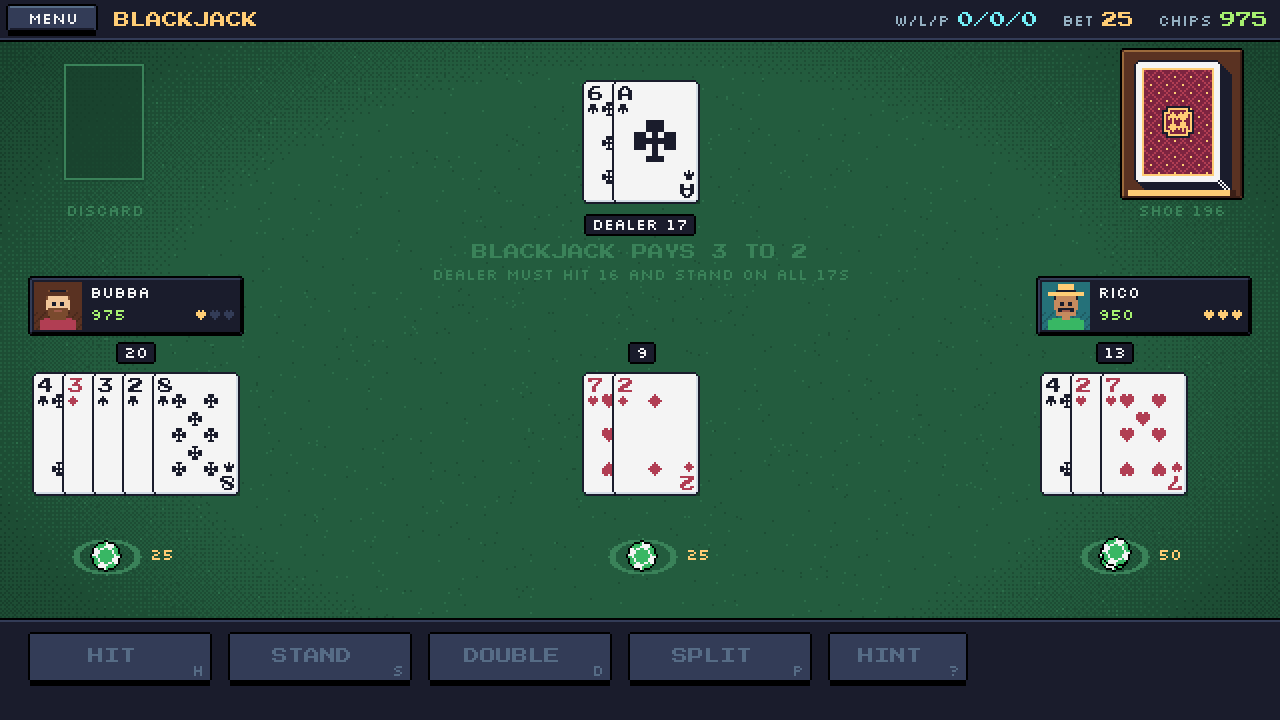
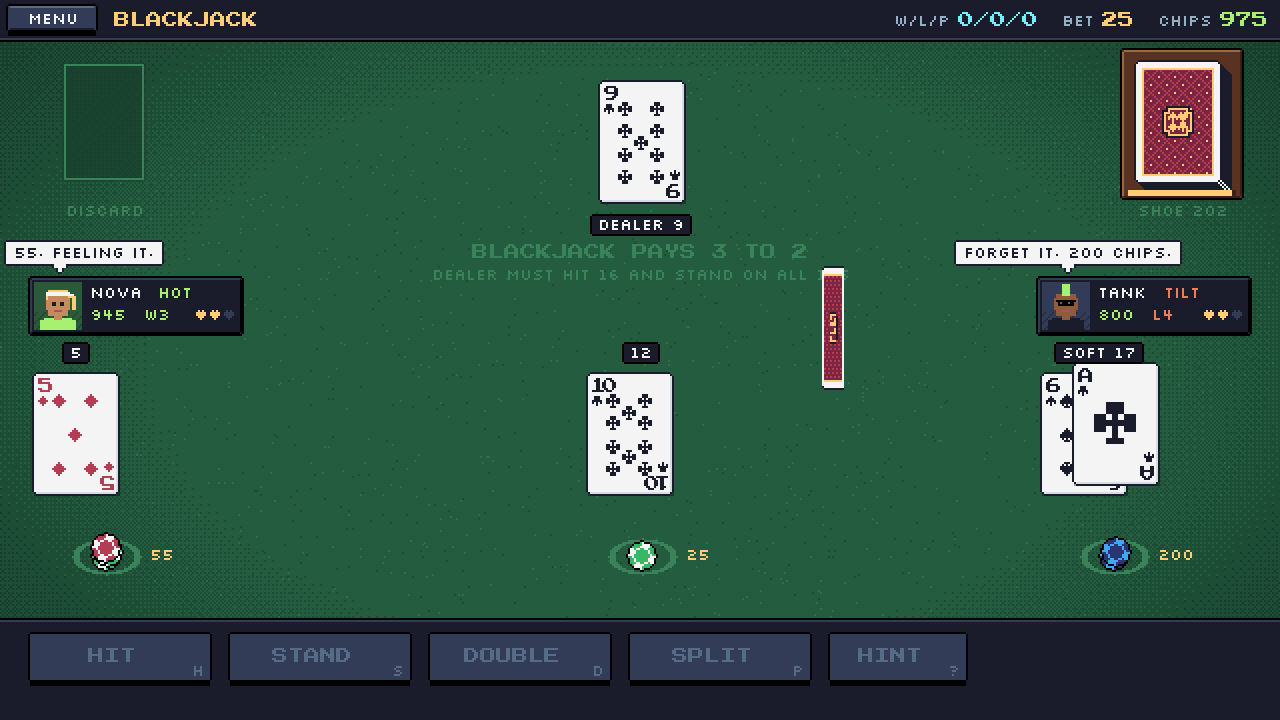
v1.2.0: Blackjack table-mates with dynamic moods, streak-based betting, nerve-driven play and running table talk

diff --git a/app/js/games/blackjack.js b/app/js/games/blackjack.js
@@ -7,6 +7,25 @@
   const CHIP_VALUES = [5, 25, 100, 500];
   const CHIP_COLORS = { 5: [P.red, P.white], 25: [P.green, P.white], 100: [P.navy, P.sky], 500: [P.plum, P.gold] };
   const START_CHIPS = 1000;
+  // general table talk, mixed with each Club member's own lines
+  const LINES = {
+    hot: ['THREE IN A ROW!', 'IM ON A HEATER!', 'DONT STOP NOW!', 'KEEP EM COMING!'],
+    cold: ['THIS SUCKS.', 'WHO SHUFFLED THIS?', 'CAN I GET ONE WIN?', 'BRUTAL.', 'I HATE THIS SHOE.'],
+    tilt: ['I AM NOT LEAVING DOWN!', 'THIS TABLE OWES ME.', 'THAT IS IT. NO MORE MR NICE.', 'UNBELIEVABLE.'],
+    allin: ['FORGET IT. {bet} CHIPS.', 'DOUBLE OR NOTHING! {bet}!', '{bet}. MY LUCK HAS TO TURN.'],
+    press: ['RAISING TO {bet}.', 'LETS MAKE IT {bet}.', 'BUMPING IT UP. {bet}.', '{bet}. FEELING IT.', 'RIDING IT. {bet}.'],
+    chase: ['{bet}. WINNING IT BACK.', 'UPPING IT TO {bet}. IT HAS TO TURN.', '{bet}. ONE GOOD HAND IS ALL I NEED.'],
+    reset: ['BACK TO {bet}. PHEW.', 'OKAY, RESET. {bet}.', 'BACK TO NORMAL. {bet}.'],
+    lower: ['DOWN TO {bet}. CAREFUL NOW.', 'JUST {bet} THIS TIME.', 'PULLING BACK. {bet}.', 'BABY STEPS. {bet}.'],
+    comeback: ['FINALLY!', 'THERE IT IS!', 'THE COMEBACK STARTS NOW.', 'ABOUT TIME!'],
+    cooled: ['ALL GOOD THINGS...', 'WELL, IT WAS FUN.', 'STREAK OVER. RATS.', 'THE TABLE TURNS.'],
+    push: ['A PUSH. BORING.', 'EVEN STEVEN.', 'NOBODY WINS.'],
+    rebuy: ['BUYING BACK IN.', 'ANOTHER STACK, PLEASE.', 'I CAN STILL WIN THIS.'],
+    brave: ['WHO CARES? HIT ME!', 'GO BIG!', 'RISK IT!', 'NO FEAR. HIT.'],
+    timid: ['I... WILL STAND.', 'NOT RISKING IT.', 'STAYING PUT.', 'SAFE IS GOOD.'],
+    cheer: ['NICE HAND!', 'SHOW OFF.', 'LUCKY YOU.', 'SHARE SOME OF THAT.'],
+    dealerBust: ['DEALER BUSTS!', 'HA! THE HOUSE CRACKS.', 'PAY UP, DEALER.']
+  };
 
   // ---------- helpers ----------
   const cardValue = (c) => (c.rank === 1 ? 11 : Math.min(10, c.rank));
@@ -109,31 +128,102 @@
       this.pick.picks.splice(0, n, ...view.picks);
       G.settings.bjPicks = this.pick.picks.slice(); G.saveSettings();
       const bank = G.store.get('bj_mates', {}) || {};
-      this.mates = view.picks.map((id, seat) => ({ id, ch: G.char(id), seat, chips: bank[id] || START_CHIPS, cards: [], bet: 0, result: null, done: false }));
+      this.mates = view.picks.map((id, seat) => { const chips = bank[id] || START_CHIPS; return { id, ch: G.char(id), seat, chips, start: chips, cards: [], bet: 0, lastBet: 0, streak: 0, best: 0, worst: 0, hands: 0, result: null, done: false }; });
       this.bubbles = []; this.setup = false;
       this.mates.forEach((m) => this.say(m, m.ch.quote.toUpperCase()));
     },
     seatX(m) { return m.seat === 0 ? 520 : 16; },
     say(m, text) { if (!text) return; this.bubbles = this.bubbles.filter((b) => b.m !== m); this.bubbles.push({ m, text, t: 1.8 }); },
+    // ---------- table-mate temper: mood, risk and betting change with the run of cards ----------
+    // mood comes from the current streak (+ wins, - losses) and how the stack compares with when they sat down
+    mood(m) {
+      const s = m.streak, n = m.ch.temper.nerve, ratio = m.chips / Math.max(1, m.start);
+      if (s >= 4) return { key: 'fire', label: 'ON FIRE', col: P.gold };
+      if (s >= 2) return { key: 'hot', label: 'HOT', col: P.lime };
+      if (s <= -3 && n === 'hothead') return { key: 'tilt', label: 'TILT', col: P.orange };
+      if (s <= -3 && n === 'jittery') return { key: 'shaky', label: 'SHAKY', col: P.sky };
+      if (s <= -2) return { key: 'cold', label: 'COLD', col: P.sky };
+      if (ratio >= 1.5) return { key: 'up', label: 'UP BIG', col: P.lime };
+      if (ratio <= 0.5) return { key: 'down', label: 'DOWN BAD', col: P.orange };
+      return null;
+    },
+    // risk shift for play decisions: + plays more dangerously, - more cautiously
+    risk(m) {
+      const s = m.streak, n = m.ch.temper.nerve;
+      if (n === 'hothead') return s <= -4 ? 2 : s <= -2 ? 1 : 0;
+      if (n === 'jittery') return s <= -4 ? -2 : s <= -2 ? -1 : 0;
+      if (n === 'confident') return s >= 4 ? 2 : s >= 2 ? 1 : s <= -3 ? -1 : 0;
+      return 0;
+    },
     mateBet(m) {
-      const b = { low: 10, mid: 25, high: 50 }[m.ch.bet] || 25;
-      return m.ch.bj === 'hunch' ? G.pick([5, 10, 25, 50]) : b;
+      const t = m.ch.temper, s = m.streak;
+      const round5 = (v) => Math.max(5, Math.round(v / 5) * 5);
+      let bet;
+      // a streak of 1 counts half, then each extra hand counts fully
+      const eff = s === 0 ? 0 : Math.abs(s) - 0.5;
+      if (t.kelly) { bet = round5(m.chips * t.kelly); m.mult = bet / 25; }
+      else {
+        const base = ({ low: 10, mid: 25, high: 50 }[m.ch.bet] || 25) * (m.ch.bj === 'hunch' ? G.pick([0.5, 1, 1, 2]) : 1);
+        let mult = s > 0 ? 1 + t.press * eff : s < 0 ? 1 + t.chase * eff : 1;
+        const ratio = m.chips / Math.max(1, m.start);
+        if (ratio >= 1.5) mult *= 1.25;                    // playing with house money
+        if (ratio <= 0.5 && t.chase <= 0) mult *= 0.6;     // protecting what is left
+        if (this.risk(m) > 1) mult *= 1.5;                 // full tilt
+        mult = Math.min(4, Math.max(0.4, mult));
+        m.mult = mult;
+        bet = round5(base * mult);
+      }
+      return Math.min(bet, 500);
+    },
+    // pick a line: the member's own lines for this kind, mixed with the general table pool
+    line(m, kind, vars) {
+      const own = m.ch.lines[kind] || [], pool = LINES[kind] || [];
+      const all = own.length && (!pool.length || Math.random() < 0.6) ? own : pool;
+      if (!all.length) return null;
+      let t = G.pick(all);
+      for (const k in vars || {}) t = t.replace('{' + k + '}', vars[k]);
+      return t;
+    },
+    // after each hand: update the streak and pick something to say about it
+    mateResult(m, res) {
+      const before = m.streak, won = res === 'WIN' || res === 'BLACKJACK', lost = res === 'LOSE' || res === 'BUST';
+      m.hands++;
+      if (won) m.streak = before > 0 ? before + 1 : 1;
+      else if (lost) m.streak = before < 0 ? before - 1 : -1;
+      m.best = Math.max(m.best, m.streak); m.worst = Math.min(m.worst, m.streak);
+      let kind = null;
+      if (won && before <= -3) kind = 'comeback';
+      else if (lost && before >= 3) kind = 'cooled';
+      else if (won && m.streak >= 3) kind = 'hot';
+      else if (lost && m.streak <= -3) kind = m.ch.temper.nerve === 'hothead' && m.streak <= -4 ? 'tilt' : 'cold';
+      else if (res === 'BLACKJACK') kind = 'win';
+      else if (won) kind = Math.random() < 0.6 ? 'win' : null;
+      else if (res === 'LOSE') kind = Math.random() < 0.6 ? 'lose' : null;
+      else if (res === 'PUSH') kind = Math.random() < 0.3 ? 'push' : null;
+      return kind ? this.line(m, kind) : null;
     },
     aiDecide(m) {
       const t = handTotal(m.cards), up = this.dealer[0];
       const d = up.rank === 1 ? 11 : Math.min(10, up.rank);
       const canD = m.cards.length === 2 && m.chips >= m.bet;
+      const r = this.risk(m);
+      let act;
       switch (m.ch.bj) {
-        case 'basic': return basicStrategy({ cards: m.cards }, up, canD, false);
-        case 'cautious': return t.total < 12 || (t.soft && t.total < 18) ? 'HIT' : 'STAND';
-        case 'reckless': if (canD && t.total >= 9 && t.total <= 11) return 'DOUBLE'; return t.total < 18 ? 'HIT' : 'STAND';
-        case 'dealer': return t.total < 17 ? 'HIT' : 'STAND';
+        case 'basic': act = basicStrategy({ cards: m.cards }, up, canD, false); break;
+        case 'cautious': act = t.total < 12 + Math.max(0, r) || (t.soft && t.total < 18) ? 'HIT' : 'STAND'; if (r > 0 && canD && t.total === 11) act = 'DOUBLE'; break;
+        case 'reckless': if (canD && t.total >= 9 - Math.max(0, r) && t.total <= 11) { act = 'DOUBLE'; break; } act = t.total < 18 + Math.min(0, r) ? 'HIT' : 'STAND'; break;
+        case 'dealer': act = t.total < 17 + Math.min(0, r) + (r > 1 ? 1 : 0) ? 'HIT' : 'STAND'; break;
         default: // hunch
-          if (canD && t.total === 11 && Math.random() < 0.5) return 'DOUBLE';
-          if (t.total <= 11) return 'HIT';
-          if (t.total <= 16) return Math.random() < (d >= 7 ? 0.65 : 0.35) ? 'HIT' : 'STAND';
-          return 'STAND';
+          if (canD && t.total === 11 && Math.random() < 0.5 + 0.2 * r) { act = 'DOUBLE'; break; }
+          if (t.total <= 11) { act = 'HIT'; break; }
+          act = t.total <= 16 && Math.random() < (d >= 7 ? 0.65 : 0.35) + 0.15 * r ? 'HIT' : 'STAND';
       }
+      // mood overrides on stiff hands (12-16): tilted members gamble, shaky members freeze
+      const stiff = !t.soft && t.total >= 12 && t.total <= 16;
+      if (stiff && r >= 2 && act === 'STAND' && Math.random() < 0.6) { m.moodMove = 'brave'; return 'HIT'; }
+      if (stiff && r <= -2 && act === 'HIT' && Math.random() < 0.6) { m.moodMove = 'timid'; return 'STAND'; }
+      if (r >= 1 && act === 'HIT' && canD && t.total >= 9 && t.total <= 11 && !t.soft && Math.random() < 0.5) { m.moodMove = 'brave'; return 'DOUBLE'; }
+      return act;
     },
     aiStep(m) {
       const t = handTotal(m.cards).total;
@@ -141,12 +231,14 @@
       if (t > 21) { m.done = true; m.result = 'BUST'; G.audio.sfx('error'); G.floatText('BUST', fx, PLAYER_Y - 6, P.orange); this.say(m, G.say(m.ch, 'bust')); this.after(0.6, () => this.nextSeat()); return; }
       if (t === 21) { m.done = true; this.say(m, isNatural(m.cards) ? 'BLACKJACK!' : '21!'); this.after(0.6, () => this.nextSeat()); return; }
       const act = this.aiDecide(m);
-      if (act === 'HIT') { this.say(m, 'HIT ME.'); m.cards.push(this.draw1()); this.after(0.65, () => this.aiStep(m)); }
+      const mm = m.moodMove; m.moodMove = null;
+      const talk = (plain) => this.say(m, mm ? this.line(m, mm) || plain : plain);
+      if (act === 'HIT') { talk('HIT ME.'); m.cards.push(this.draw1()); this.after(0.65, () => this.aiStep(m)); }
       else if (act === 'DOUBLE') {
-        m.chips -= m.bet; m.bet *= 2; m.doubled = true; G.audio.sfx('chip'); this.say(m, 'DOUBLE DOWN!');
+        m.chips -= m.bet; m.bet *= 2; m.doubled = true; G.audio.sfx('chip'); talk('DOUBLE DOWN!');
         m.cards.push(this.draw1());
         this.after(0.7, () => { m.done = true; if (handTotal(m.cards).total > 21) { m.result = 'BUST'; G.audio.sfx('error'); G.floatText('BUST', fx, PLAYER_Y - 6, P.orange); this.say(m, G.say(m.ch, 'bust')); } this.after(0.5, () => this.nextSeat()); });
-      } else { m.done = true; this.say(m, 'STAND.'); this.after(0.55, () => this.nextSeat()); }
+      } else { m.done = true; talk('STAND.'); this.after(0.55, () => this.nextSeat()); }
     },
     // turn order around the table: seat 1 (right), you, seat 2 (left), then the dealer
     nextSeat() {
@@ -211,9 +303,21 @@
       const bank = {};
       this.mates.forEach((m) => {
         m.cards = []; m.result = null; m.done = false; m.doubled = false;
+        const lastMult = m.mult || 1;
         m.bet = this.mateBet(m);
-        if (m.chips < m.bet) { m.chips = START_CHIPS; this.say(m, 'BUYING BACK IN.'); }
+        let talk = null;
+        m.cool = (m.cool || 0) - 1;
+        if (m.chips < m.bet) { m.chips = START_CHIPS; m.start = START_CHIPS; m.streak = 0; m.bet = this.mateBet(m); talk = this.line(m, 'rebuy'); }
+        else if (m.cool <= 0 && m.lastBet && m.bet > m.lastBet) {
+          // only talk about bet changes that come from their temper, not from a hunch wobble
+          if (m.mult >= lastMult * 1.35 && Math.random() < 0.75) talk = this.line(m, this.risk(m) > 1 ? 'allin' : m.streak < 0 ? 'chase' : 'press', { bet: m.bet });
+        } else if (m.cool <= 0 && m.lastBet && m.bet < m.lastBet && m.mult <= lastMult * 0.75 && Math.random() < 0.75) {
+          talk = this.line(m, m.streak > 0 ? 'reset' : 'lower', { bet: m.bet });
+        }
+        if (talk) m.cool = 2;
+        m.lastBet = m.bet;
         m.chips -= m.bet;
+        if (talk) this.say(m, talk);
       });
       const m0 = this.mates.find((m) => m.seat === 0), m1 = this.mates.find((m) => m.seat === 1);
       for (let r = 0; r < 2; r++) {
@@ -336,10 +440,15 @@
         else res = 'LOSE';
         pay = Math.floor(pay); m.result = res; m.chips += pay;
         G.floatText(pay > m.bet ? '+' + (pay - m.bet) : pay === m.bet ? 'PUSH' : '-' + m.bet, this.seatX(m) + CW / 2, PLAYER_Y - 14, pay > m.bet ? P.lime : pay === m.bet ? P.white : P.orange, 'small');
-        if (res === 'WIN' || res === 'BLACKJACK') this.say(m, G.say(m.ch, 'win')); else if (res === 'LOSE') this.say(m, G.say(m.ch, 'lose'));
+        const quip = this.mateResult(m, res);
+        if (quip) this.say(m, quip);
         bank[m.id] = m.chips;
       });
       if (this.mates.length) G.store.set('bj_mates', bank);
+      // the table reacts to the dealer busting, or to your blackjack, if nobody already had something to say
+      const quiet = this.mates.filter((m) => !this.bubbles.some((b) => b.m === m));
+      if (quiet.length && dt > 21 && Math.random() < 0.5) this.say(G.pick(quiet), G.pick(LINES.dealerBust));
+      else if (quiet.length && this.hands.some((h) => h.result === 'BLACKJACK') && Math.random() < 0.6) this.say(G.pick(quiet), G.pick(LINES.cheer));
       this.stats.won += wins; this.stats.lost += losses; this.stats.push += pushes;
       this.msg = net > 0 ? 'YOU WIN ' + net : net < 0 ? (dt > 21 ? 'DEALER BUSTS' : 'DEALER WINS') : 'PUSH';
       if (net < 0 && dt > 21) this.msg = 'YOU LOSE ' + -net;
@@ -433,6 +542,9 @@
         G.drawAvatar(m.id, x + 1, 141);
         G.text(m.ch.name, x + 29, 144, turn ? P.gold : P.white, 'small');
         G.text(String(m.chips), x + 29, 155, P.lime, 'small');
+        const md = this.mood(m);
+        if (md) G.text(md.label, x + 80, 144, md.col, 'small', 'right');
+        if (m.streak) G.text((m.streak > 0 ? 'W' : 'L') + Math.abs(m.streak), x + 56, 155, m.streak > 0 ? P.lime : P.orange, 'small');
         G.stars(m.ch.skill, x + 82, 155);
         const cx = x + 37;
         if (m.bet > 0 && this.phase !== 'bet') this.drawBetSpot(cx, PLAYER_Y + CH + 30, m.bet, turn);
@@ -461,7 +573,7 @@
       if (c === 0) { G.alpha(0.4, () => G.rosterPicker(view)); G.text('JUST YOU AND THE DEALER', 127, 128, P.gold, 'small', 'center'); }
       else { G.rosterPicker(view); st.picks.splice(0, view.picks.length, ...view.picks); st.focus = view.focus; st.hoverChar = view.hoverChar; }
       if (c > 0 && ui.button('RANDOM PICKS', 22, 180, 210, 18, { id: 'rnd', theme: 'dark' })) { const v = { picks: view.picks.map(() => null) }; G.fillRandom(v); st.picks.splice(0, v.picks.length, ...v.picks); }
-      G.wrap('Each member keeps their own chip stack and plays with their own style. Watch Bubba copy the dealer or Tank go wild.'.toUpperCase(), 210, 'small').forEach((l, i) => G.text(l, 22, 240 + i * 9, P.silver, 'small'));
+      G.wrap('Each member keeps their own chip stack. Their bets, mood and nerve shift with every win and loss. Watch Tank chase his losses or Nova press a hot streak.'.toUpperCase(), 210, 'small').forEach((l, i) => G.text(l, 22, 240 + i * 9, P.silver, 'small'));
       if (ui.button('TAKE A SEAT', 22, 294, 210, 22, { theme: 'green', key: ['Enter', ' '], showKey: false })) this.startTable();
       if (ui.button('BACK', 22, 322, 210, 20, { theme: 'red', key: 'Escape', showKey: false })) G.go(G.Menu);
     },

diff --git a/app/js/roster.js b/app/js/roster.js
@@ -26,6 +26,53 @@
     { id: 'byte', name: 'BYTE', skill: 2, bg: '#1e2a3a', skin: SK.robot, hair: ['robot', P.silver], shirt: P.slate, acc: ['robot'], fish: { rank: 'most', target: 'mostCards', perfect: true }, bj: 'basic', bet: 'mid', quote: 'BEEP. MEMORY 100 PERCENT.', lines: { fish: ['QUERY DENIED. GO FISH.'], book: ['SET COMPLETE.'], win: ['VICTORY.EXE'], lose: ['ERROR 404: WIN'], bust: ['OVERFLOW!'] } }
   ];
   G.ROSTER = R;
+  // ---------- Blackjack temper: how each member bets and plays as the night goes on ----------
+  // press: bet grows this much per win in a streak. chase: bet grows (or shrinks if negative) per loss in a streak.
+  // nerve: steady (mood never changes play), hothead (losing makes them reckless), jittery (losing makes them timid),
+  //        confident (winning makes them bolder). kelly: bets a fixed share of the stack.
+  const TEMPER = {
+    lou: { press: 0.5, chase: 0.35, nerve: 'hothead', bets: 'Rides a hot streak, chases losses' },
+    mavis: { press: 0.25, chase: -0.2, nerve: 'jittery', bets: 'Small raises, pulls back fast' },
+    rico: { press: 0.5, chase: -0.15, nerve: 'steady', bets: 'Presses wins, trims losses' },
+    doc: { press: 0, chase: 0, nerve: 'steady', bets: 'Flat bets, every hand' },
+    pixie: { press: 0.5, chase: 0.5, nerve: 'hothead', bets: 'Up when winning, up when losing' },
+    tank: { press: 0.5, chase: 0.75, nerve: 'hothead', bets: 'Doubles down on bad luck' },
+    granny: { press: 0.2, chase: -0.25, nerve: 'steady', bets: 'Careful, shrinks bets when cold' },
+    ziggy: { press: 0.25, chase: 0.25, nerve: 'steady', bets: 'Drifts with the vibe' },
+    viper: { press: 1, chase: -0.25, nerve: 'steady', bets: 'Presses hard on a streak' },
+    bubba: { press: 0.25, chase: 0.25, nerve: 'hothead', bets: 'Gets stubborn when losing' },
+    finn: { press: 0.5, chase: 0.5, nerve: 'confident', bets: 'Bold on a streak, chases treasure' },
+    nova: { press: 0.5, chase: 0, nerve: 'confident', bets: 'Speeds up on a hot streak' },
+    duke: { press: 0.25, chase: 0.5, nerve: 'hothead', bets: 'Wounded pride raises the stakes' },
+    mimi: { press: 0.25, chase: -0.25, nerve: 'jittery', bets: 'Gets nervous after losses' },
+    sarge: { press: 0, chase: 0, nerve: 'steady', bets: 'Flat bets, by procedure' },
+    kai: { press: 0.1, chase: -0.3, nerve: 'jittery', bets: 'Steady, backs off when cold' },
+    rosa: { press: 0.5, chase: 0.25, nerve: 'confident', bets: 'Presses wins, never backs down' },
+    byte: { press: 0, chase: 0, nerve: 'steady', kelly: 0.03, bets: 'Bets 3 percent of its stack' }
+  };
+  // personal lines for streaks
+  const MOOD_LINES = {
+    lou: { hot: ['LADY LUCK LOVES ME!', 'CANT LOSE TONIGHT!'], cold: ['THIS SUCKS.', 'WHO JINXED ME?'] },
+    mavis: { hot: ['THE BOOK WORKS!'], cold: ['THIS IS MOST UNFAIR.', 'I NEED A TEA.'] },
+    rico: { hot: ['THE CARDS LOVE RICO.'], cold: ['THIS SHOE IS CURSED.'] },
+    doc: { hot: ['VARIANCE, IN MY FAVOUR.'], cold: ['A NEGATIVE SAMPLE. FINE.'] },
+    pixie: { hot: ['SPARKLE STREAK!'], cold: ['THIS SUCKS! BOOO!', 'UGH, NO FAIR!'] },
+    tank: { hot: ['UNSTOPPABLE!', 'FEED ME CHIPS!'], cold: ['THIS SUCKS.', 'I WILL BREAK THIS TABLE.'] },
+    granny: { hot: ['GRANNY IS ON A ROLL.'], cold: ['IN MY DAY CARDS WERE KINDER.'] },
+    ziggy: { hot: ['THE VIBES ARE IMMACULATE.'], cold: ['BAD VIBES, MAN.', 'THIS KINDA SUCKS, DUDE.'] },
+    viper: { hot: ['I SAW THIS COMING.'], cold: ['...THIS IS IRRITATING.'] },
+    bubba: { hot: ['HOT DIGGITY!'], cold: ['THIS DANG SHOE.', 'WELL THIS JUST STINKS.'] },
+    finn: { hot: ['FULL SAIL, LADS!'], cold: ['ROUGH SEAS, ROUGH SEAS.'] },
+    nova: { hot: ['NEW PB INCOMING!', 'ON PACE!'], cold: ['THIS RUN IS DEAD.', 'BAD RNG.'] },
+    duke: { hot: ['AS IS MY BIRTHRIGHT.'], cold: ['THIS IS BENEATH ME.', 'AN OUTRAGE.'] },
+    mimi: { hot: ['IM GOOD AT THIS?!'], cold: ['THIS SUCKS...', 'WHY DO I KEEP LOSING?'] },
+    sarge: { hot: ['OUTSTANDING!'], cold: ['EMBRACE THE SUCK.', 'THIS IS A CLUSTER.'] },
+    kai: { hot: ['RIDING THE WAVE.'], cold: ['NOT MY NIGHT.', 'OKAY, THIS SUCKS.'] },
+    rosa: { hot: ['MI RACHA!', 'KEEP THEM COMING.'], cold: ['QUE MALA SUERTE.'] },
+    byte: { hot: ['WIN STREAK DETECTED.'], cold: ['THIS OUTCOME SUCKS.EXE', 'RECALIBRATING.'] }
+  };
+  for (const c of R) { c.temper = TEMPER[c.id]; Object.assign(c.lines, MOOD_LINES[c.id]); }
+  G.NERVE = { steady: 'Plays the same win or lose', hothead: 'Gets reckless when losing', jittery: 'Gets timid when losing', confident: 'Gets bolder when winning' };
   G.char = (id) => R.find((c) => c.id === id) || R[0];
   G.SKILL_NAMES = ['EASY', 'NORMAL', 'HARD'];
   G.BJ_STYLE = { basic: 'Plays perfect basic strategy', cautious: 'Stands on 12 or more', reckless: 'Hits to 18, loves to double', dealer: 'Copies the dealer: hits to 17', hunch: 'Plays on gut feeling' };
@@ -182,10 +229,12 @@
     G.stars(show.skill, ix + 64 + G.textWidth(show.name, 'big') + 8, iy + 9);
     G.text(G.SKILL_NAMES[show.skill], ix + 64 + G.textWidth(show.name, 'big') + 34, iy + 10, P.silver, 'small');
     G.text('"' + show.quote.toUpperCase() + '"', ix + 64, iy + 23, P.cyan, 'small');
-    G.text('GO FISH: ' + G.FISH_STYLE(show).toUpperCase(), ix + 64, iy + 37, P.white, 'small');
-    G.text('BLACKJACK: ' + G.BJ_STYLE[show.bj].toUpperCase(), ix + 64, iy + 49, P.white, 'small');
+    G.text('GO FISH: ' + G.FISH_STYLE(show).toUpperCase(), ix + 64, iy + 32, P.white, 'small');
+    G.text('BLACKJACK: ' + G.BJ_STYLE[show.bj].toUpperCase(), ix + 64, iy + 41, P.white, 'small');
+    G.text('BETS: ' + show.temper.bets.toUpperCase(), ix + 64, iy + 50, P.white, 'small');
+    G.text('NERVE: ' + G.NERVE[show.temper.nerve].toUpperCase(), ix + 64, iy + 59, P.white, 'small');
     const rec = G.record(show.id);
-    G.text('YOUR RECORD VS ' + show.name + ':  ' + rec.w + ' W - ' + rec.l + ' L', ix + 64, iy + 63, P.silver, 'small');
+    G.text('YOUR RECORD VS ' + show.name + ':  ' + rec.w + ' W - ' + rec.l + ' L', ix + 64, iy + 71, P.silver, 'small');
   };
   // fill empty slots with random members not already picked
   G.fillRandom = (st, all) => {

diff --git a/app/js/rulebook.js b/app/js/rulebook.js
@@ -60,10 +60,12 @@
         { tip: 'Out of chips? The house hands you a fresh stack of 1000.' }],
       [{ h: 'TABLE-MATES' },
         { p: 'Up to two Club members can sit at your table. Pick them before you sit down, or press SEATS between hands. Each has their own chips and plays their own hand against the dealer.' },
-        { p: 'Turn order: seat 1 on your right, then you, then seat 2 on your left, then the dealer.' },
+        { p: 'Turn order: right seat, you, left seat, then the dealer.' },
         { h2: 'PLAY STYLES' },
-        { table: [['BY THE BOOK', 'Perfect basic strategy.'], ['CAUTIOUS', 'Stands on 12 or more.'], ['RECKLESS', 'Hits to 18 and loves to double.'], ['DEALER', 'Copies the dealer and hits to 17.'], ['HUNCH', 'Plays on gut feeling.']], col: 70 },
-        { tip: 'Table-mates never split, and they draw from the same shoe as you.' }],
+        { table: [['BY THE BOOK', 'Perfect basic strategy.'], ['CAUTIOUS', 'Stands on 12 or more.'], ['RECKLESS', 'Hits to 18, loves to double.'], ['DEALER', 'Hits to 17 like the dealer.'], ['HUNCH', 'Plays on gut feeling.']], col: 70 },
+        { h2: 'MOOD AND BETS' },
+        { p: 'Bets rise and fall with each streak. Some press a hot run, some chase losses. Hotheads play wild when losing, jittery members freeze.' },
+        { tip: 'The panel shows their streak (W3, L2) and mood: HOT, COLD, TILT, SHAKY.' }],
       // 8 solitaire
       [{ h: 'SOLITAIRE' },
         { p: 'This is Klondike. Move all 52 cards onto the four foundations, building each suit up from Ace to King.' },

diff --git a/app/js/main.js b/app/js/main.js
@@ -78,7 +78,7 @@
         else if (document.documentElement.requestFullscreen) document.documentElement.requestFullscreen().catch(() => {});
       }
       G.text('PICK A GAME WITH THE MOUSE OR PRESS 1  2  3', G.W / 2, 330, P.felt4, 'small', 'center');
-      G.text('V1.1', G.W - 8, G.H - 10, P.felt3, 'small', 'right');
+      G.text('V1.2', G.W - 8, G.H - 10, P.felt3, 'small', 'right');
       if (this.options) this.drawOptions();
     },
     drawOptions() {

diff --git a/docs/HOW_TO_PLAY.md b/docs/HOW_TO_PLAY.md
@@ -20,6 +20,13 @@ Press **RULEBOOK** (or **R**) on the main menu to open the in-game book. Click t
 ### Table-mates
 Before the first round you can seat **none, 1 or 2 Club members** at the table (press **SEATS / T** between rounds to change them). Table-mates bet and play their own hands with their own chips, in their own style (see [The Club](#the-club)). They don't change your odds: everyone plays against the dealer, never against each other. Turn order is right seat, you, left seat, then the dealer. Their chip stacks are saved between sessions.
 
+### Mood, nerve and bets
+Table-mates don't play the same way all night. Each one tracks their **streak** (shown as W3 or L2 on their panel) and their stack compared with when they sat down, and that sets their **mood**: HOT, ON FIRE, COLD, TILT, SHAKY, UP BIG or DOWN BAD.
+
+- **Bets change with the run of cards.** Each member has a betting temper. Some **press** a winning streak, some **chase** losses with bigger bets, and some back off when cold. Players who are well up also bet more. BYTE always bets 3% of its stack.
+- **Nerve changes how they play.** Hotheads play more dangerously when losing (hitting stiff hands, doubling more). Jittery members get cautious and freeze on 12–16. Confident members get bolder on a hot streak. Steady members play the same win or lose.
+- **They talk about it.** Members announce big bet changes ("UPPING IT TO 90. IT HAS TO TURN."), complain on a cold run ("THIS SUCKS."), celebrate streaks and comebacks, and react when the dealer busts or you get a blackjack. Each member has their own lines mixed in with the general table talk.
+
 ### Goal
 Finish with a hand closer to **21** than the dealer's without going over.
 
@@ -174,6 +181,28 @@ The Club is 18 computer players. Each one has a portrait, a skill level (hearts:
 | **Perfect memory** (BYTE) | Remembers everything |
 
 Members who know a player holds a rank ask that player for it first. A member who just had cards taken may hold a grudge and go after whoever took them. The AI only uses what a person at the table could hear. It never looks at hidden hands.
+
+**Blackjack betting and nerve**
+| Member | Bets | Nerve |
+|---|---|---|
+| LUCKY LOU | Rides a hot streak, chases losses | Hothead |
+| MAVIS | Small raises, pulls back fast | Jittery |
+| RICO | Presses wins, trims losses | Steady |
+| DOC | Flat bets | Steady |
+| PIXIE | Up when winning, up when losing | Hothead |
+| TANK | Doubles down on bad luck | Hothead |
+| GRANNY JO | Careful, shrinks bets when cold | Steady |
+| ZIGGY | Drifts with the vibe | Steady |
+| VIPER | Presses hard on a streak | Steady |
+| BUBBA | Gets stubborn when losing | Hothead |
+| CAPT FINN | Bold on a streak, chases | Confident |
+| NOVA | Speeds up on a hot streak | Confident |
+| THE DUKE | Wounded pride raises the stakes | Hothead |
+| MIMI | Gets nervous after losses | Jittery |
+| SARGE | Flat bets, by procedure | Steady |
+| KAI | Steady, backs off when cold | Jittery |
+| ROSA | Presses wins, never backs down | Confident |
+| BYTE | 3% of its stack | Steady |
 
 **Blackjack styles**
 | Style | How it plays |

diff --git a/docs/ARCHITECTURE.md b/docs/ARCHITECTURE.md
@@ -51,6 +51,15 @@ The UI is **immediate mode**: `if (ui.button('HIT', x, y, w, h, { key: 'h' })) h
 - Turning a page squeezes the turning page horizontally with a cosine curve, then reveals the next spread, with a paper `page` sound.
 - `G.Rulebook.open(chapter, returnScene)` opens at a chapter. Each game sets `bookChapter`, so **Esc → How to Play** opens its own chapter.
 
+### Blackjack table-mate temper
+
+Each member's `temper` in `roster.js` has `press` (bet growth per win in a streak), `chase` (bet growth, or shrink if negative, per loss), a `nerve` (`steady`, `hothead`, `jittery` or `confident`) and an optional `kelly` share of the stack.
+
+- `mateResult()` updates `m.streak` after each hand and picks a line: comeback, cooled-off, hot, cold or tilt first, then the ordinary win/lose/push lines.
+- `mateBet()` sets the bet as base × multiplier. The multiplier comes from the streak (a streak of 1 counts half) and is adjusted when the stack is well up or down, then clamped to 0.4×–4×. Bet comments only fire when the multiplier really changes (not on a hunch wobble), with a two-hand cooldown.
+- `risk()` turns streak and nerve into a value from −2 to +2. `aiDecide()` shifts each style's thresholds by it, and at ±2 a stiff hand (hard 12–16) may be hit or stood on against the member's usual style (`moodMove`, with its own lines).
+- `mood()` gives the panel label. `LINES` in `blackjack.js` is the general table-talk pool, mixed with each member's own `hot` and `cold` lines.
+
 ## Turn timing
 
 Blackjack and Go Fish use a small **step queue** (`after(seconds, fn)` / `runQueue(dt)`). Dealing, dealer draws and AI turns are queued with short pauses, so you can follow what's happening, and the queue stops while the game is paused.

diff --git a/README.md b/README.md
@@ -18,6 +18,10 @@ A 16-bit pixel-art card game collection for Windows (and the browser). It has th
 |---|---|---|
 | ![Rulebook](docs/screenshots/rulebook.png) | ![Club members](docs/screenshots/club_members.png) | ![Go Fish setup](docs/screenshots/gofish_setup.png) |
 
+## What's new in 1.2
+
+- **Blackjack table-mates have moods.** Their bets rise and fall with their streak and stack, their play gets riskier or safer depending on their nerve, and they comment on it as the session goes ("THIS SUCKS." on a cold run, cheering on a hot one). Their panel shows their streak and mood.
+
 ## What's new in 1.1
 
 - **Rulebook**: press **R** on the main menu (or **Esc → How to Play** in any game). It's drawn as a leather book with chapter tabs, and pages turn with an animation.
